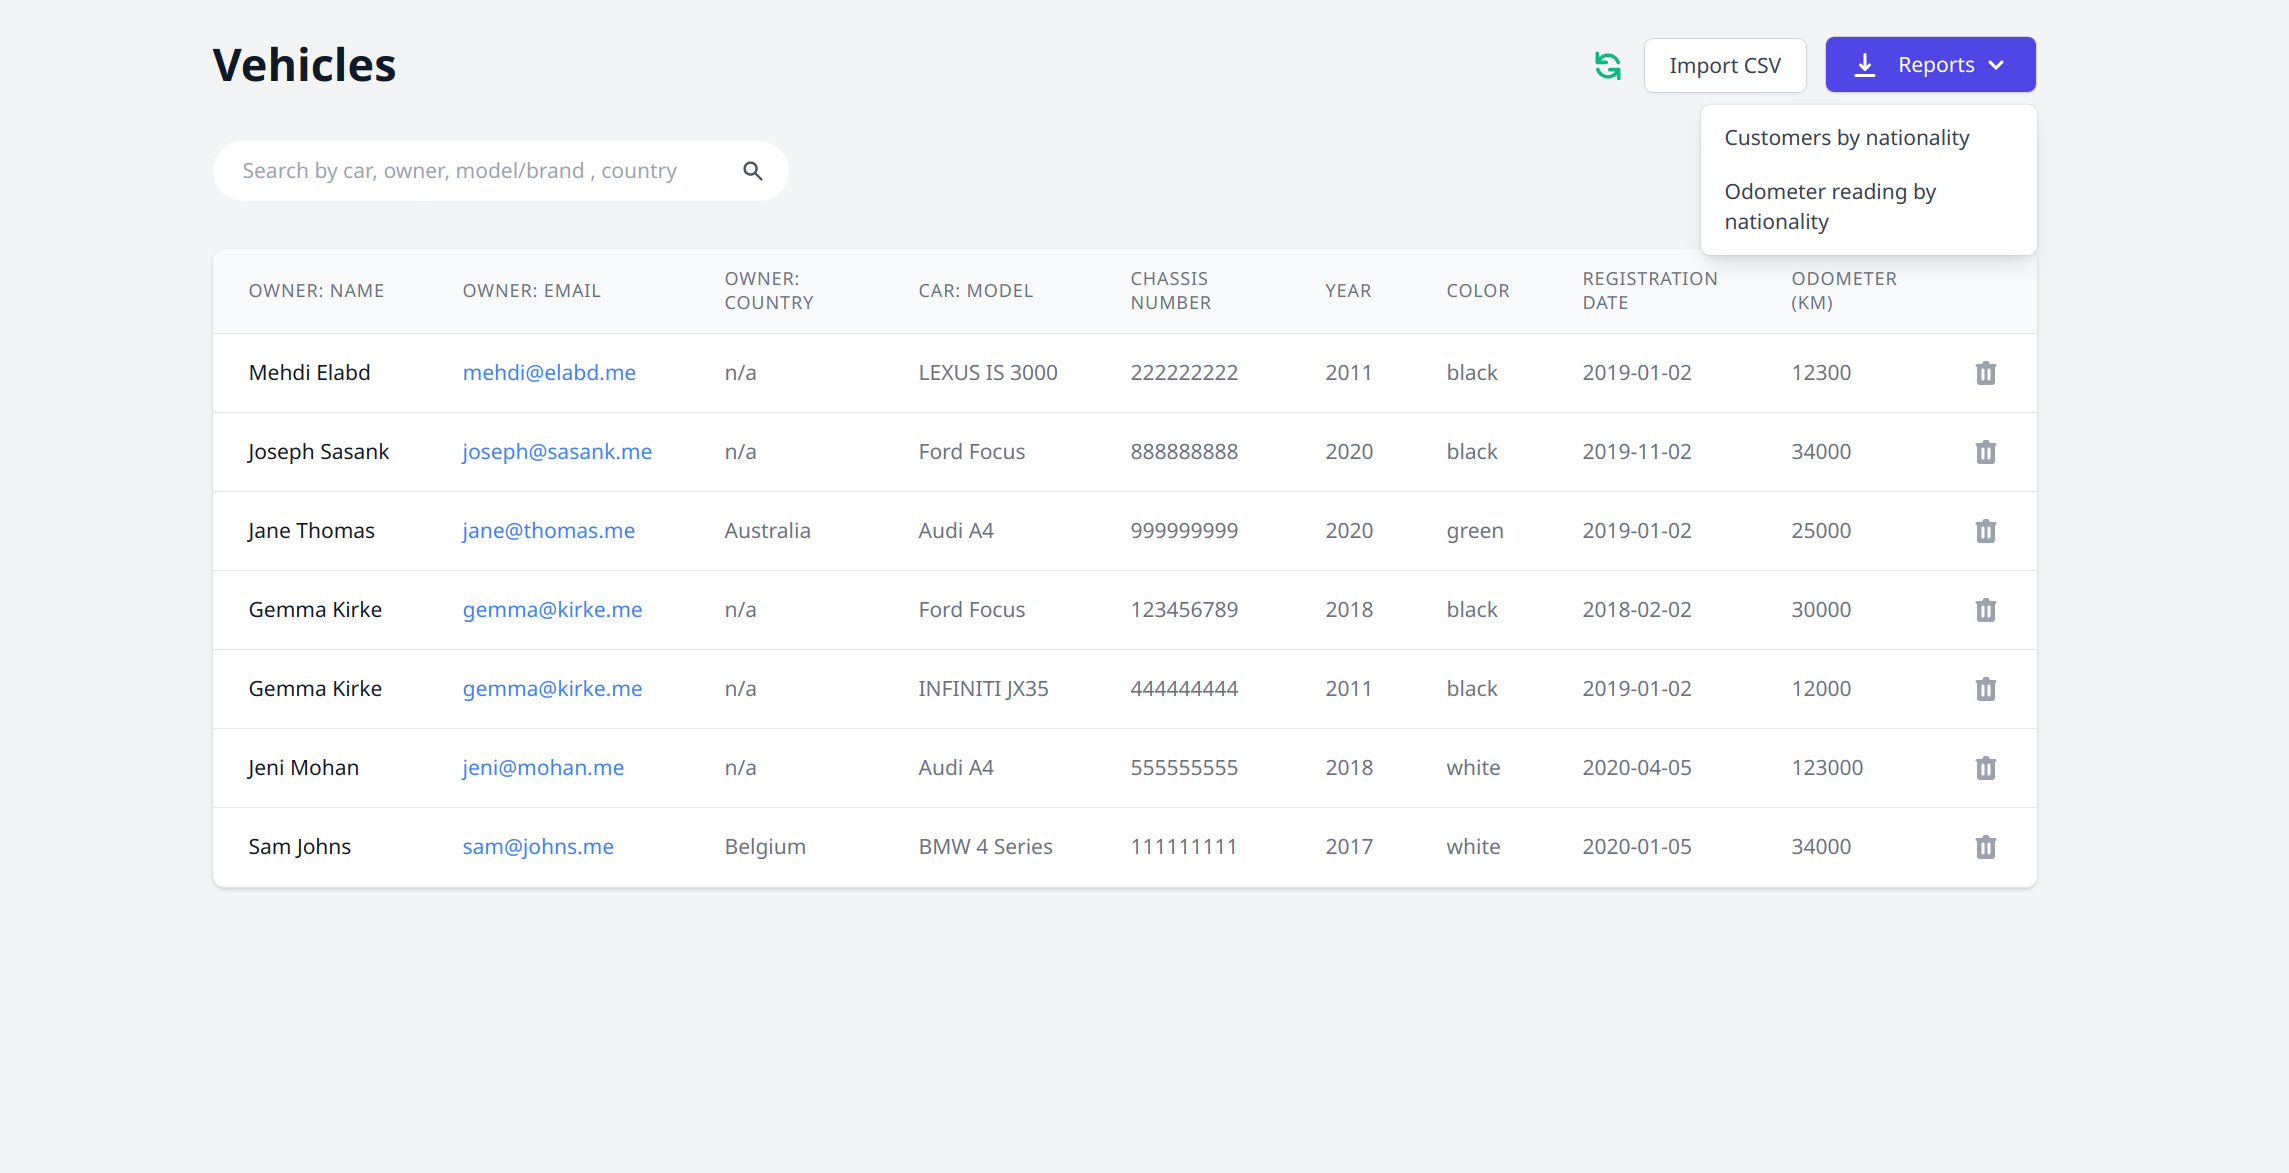
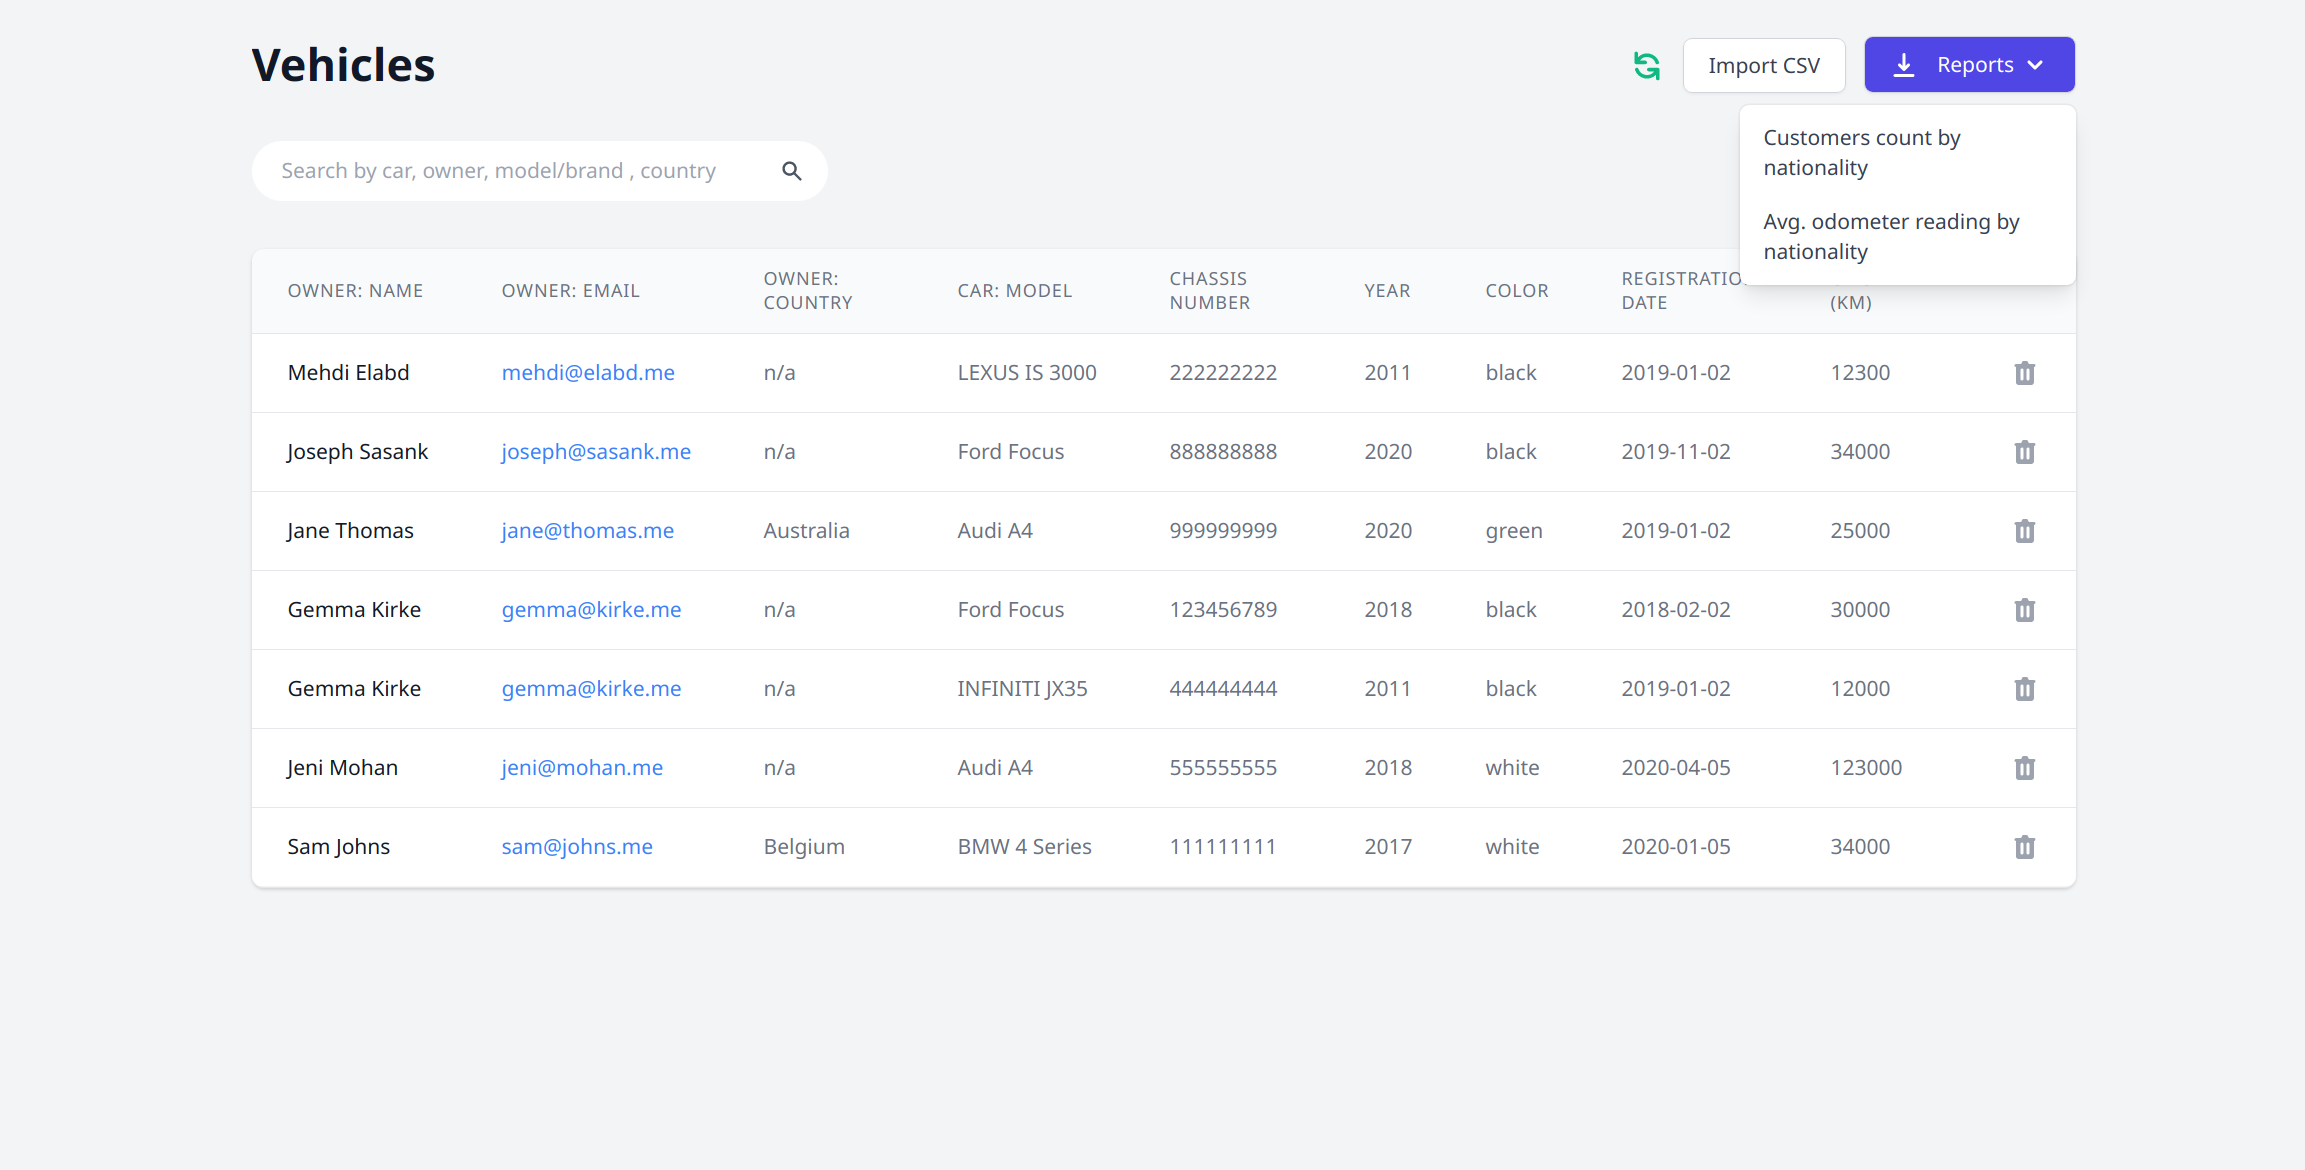
Reports links labels improvement

diff --git a/app/components/vehicles/report_download_dropdown_component.rb b/app/components/vehicles/report_download_dropdown_component.rb
@@ -30,11 +30,11 @@ module Vehicles
     def default_links
       [
         [
-          "Customers by nationality",
+          "Customers count by nationality",
           helpers.customers_by_nationality_reports_path(format: :csv)
         ],
         [
-          "Odometer reading by nationality",
+          "Avg. odometer reading by nationality",
           helpers.average_odometer_reading_by_nationality_reports_path(format: :csv)
         ]
       ]
